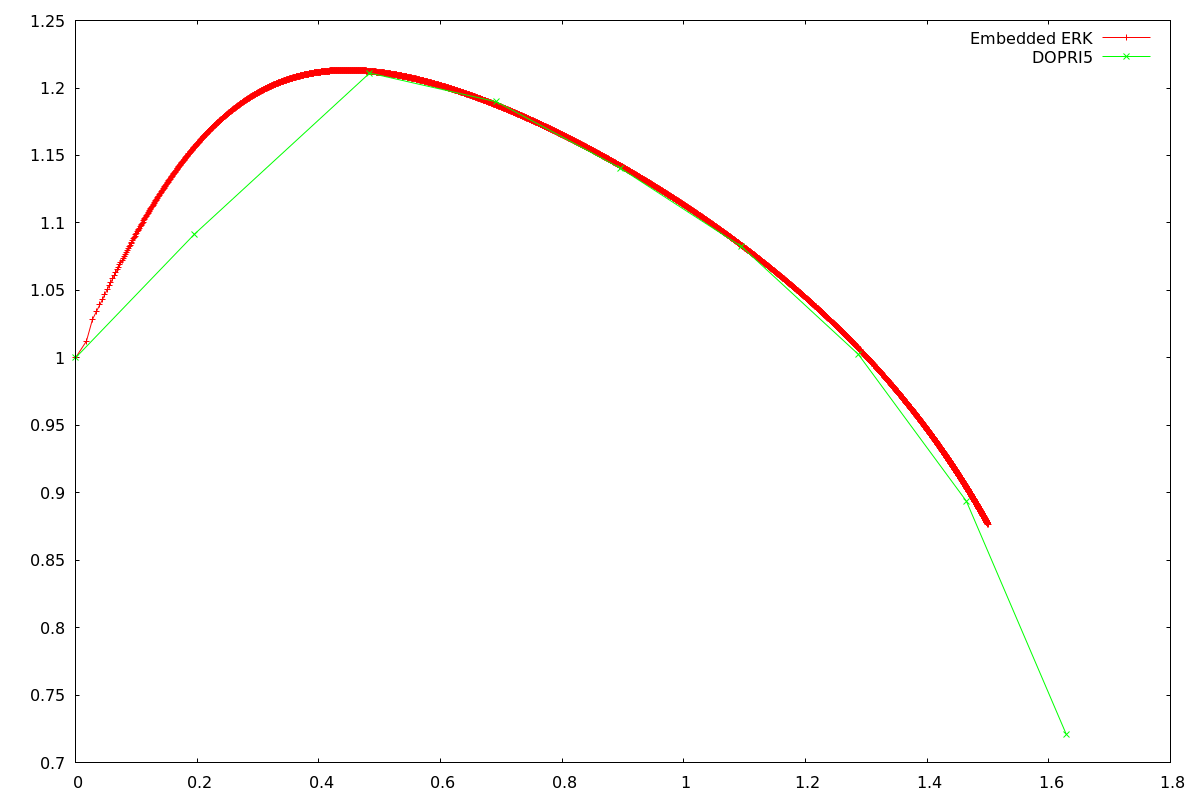
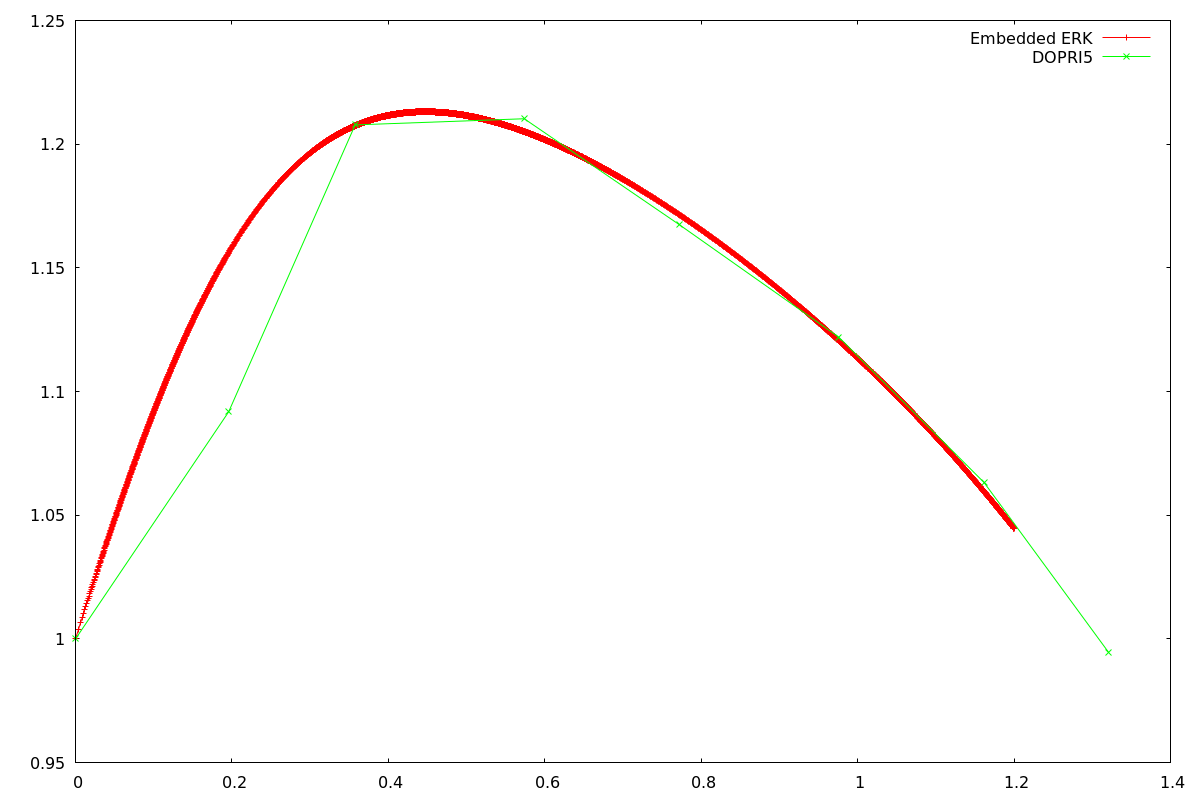
Fixed error handling of embedded rk, plot hs over time

diff --git a/src/embedded_rk.rs b/src/embedded_rk.rs
@@ -17,7 +17,6 @@ pub struct EmbeddedExplicitRungeKuttaMethod<FT: SampleableFunction<(f64, Vec<f64
     lower_order: usize,
     current_h: f64,
     make_ivp: fn() -> InitialValueSystemProblem<FT>,
-    current_err: f64,
     tolerance: f64,
 }
 
@@ -37,27 +36,18 @@ impl<FT: SampleableFunction<(f64, Vec<f64>), f64>> EmbeddedExplicitRungeKuttaMet
         );
         let val2 = rk2.value_at(t + self.current_h);
 
-        let err = abs!(val1[0] - val2[0]) / (1.0 + abs!(last_values[0]));
+        let err = val1.iter().zip(val2.iter()).zip(last_values.iter())
+            .map(|((v1, v2), l)| abs!(v1 - v2) / (1.0 + abs!(l)))
+            .fold(0.0, f64::max);
+
+        self.current_h = 2.0f64.min(
+            0.5f64
+                .max(0.9 * powf!(self.tolerance / err, 1.0 / (self.lower_order as f64 + 1.0))),
+        ) * self.current_h;
 
         if err <= self.tolerance {
-            self.current_h = 2.0f64.min(
-                0.5f64
-                    .max(0.9 * powf!(self.tolerance / err, 1.0 / (self.lower_order as f64 + 1.0))),
-            ) * self.current_h;
-            self.current_err = 0.0;
             return val1;
         }
-
-        if err > self.current_err {
-            self.current_err = err;
-        }
-        self.current_h = 2.0f64.min(0.5f64.max(
-            0.9 * powf!(
-                self.tolerance / self.current_err,
-                1.0 / (self.lower_order as f64 + 1.0)
-            ),
-        )) * self.current_h;
-
         self.step(t, last_values)
     }
 
@@ -109,7 +99,6 @@ pub fn make_embedded_explicit_runge_kutta_with_tableau<
         lower_order,
         h_start,
         create_ivp,
-        0.0,
         tolerance,
     )
 }

diff --git a/examples/task12_1.rs b/examples/task12_1.rs
@@ -11,7 +11,7 @@ const IMAGE_DIR: &str = "./img_task12_1/";
 const EPSILON: f64 = 10.0;
 const H_START: f64 = 0.1;
 const TOLERANCE: f64 = 0.0001;
-const T_TARGET: f64 = 1.5;
+const T_TARGET: f64 = 1.2;
 
 fn main() -> Result<(), Box<dyn Error>> {
     create_dir_all(IMAGE_DIR)?;
@@ -58,10 +58,10 @@ fn main() -> Result<(), Box<dyn Error>> {
         .map(|(t2, t1)| t2 - t1)
         .collect();
 
-    let hs_to_plot: Vec<_> = hs
+    let hs_to_plot: Vec<_> = xs
         .iter()
-        .enumerate()
-        .map(|(x, y)| Point2D::new(x as f64, *y))
+        .zip(hs)
+        .map(|(x, y)| Point2D::new(*x, y))
         .collect();
 
     let hs_dop: Vec<f64> = approximation_dop
@@ -72,10 +72,10 @@ fn main() -> Result<(), Box<dyn Error>> {
         .map(|(t2, t1)| t2 - t1)
         .collect();
 
-    let hs_to_plot_dop: Vec<_> = hs_dop
+    let hs_to_plot_dop: Vec<_> = xs_dop
         .iter()
-        .enumerate()
-        .map(|(x, y)| Point2D::new(x as f64, *y))
+        .zip(hs_dop)
+        .map(|(x, y)| Point2D::new(*x, y))
         .collect();
 
     let mut fg = Figure::new();
